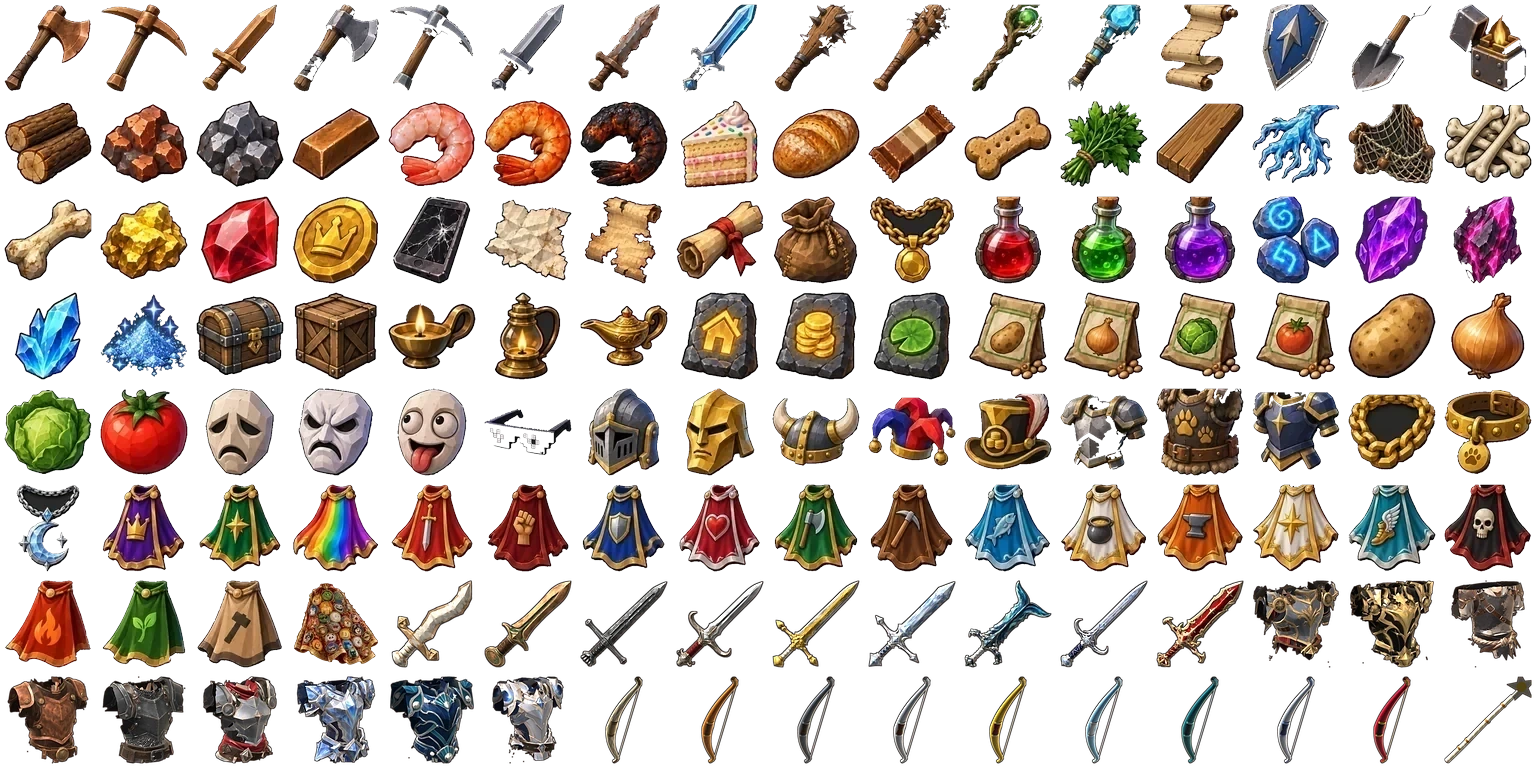
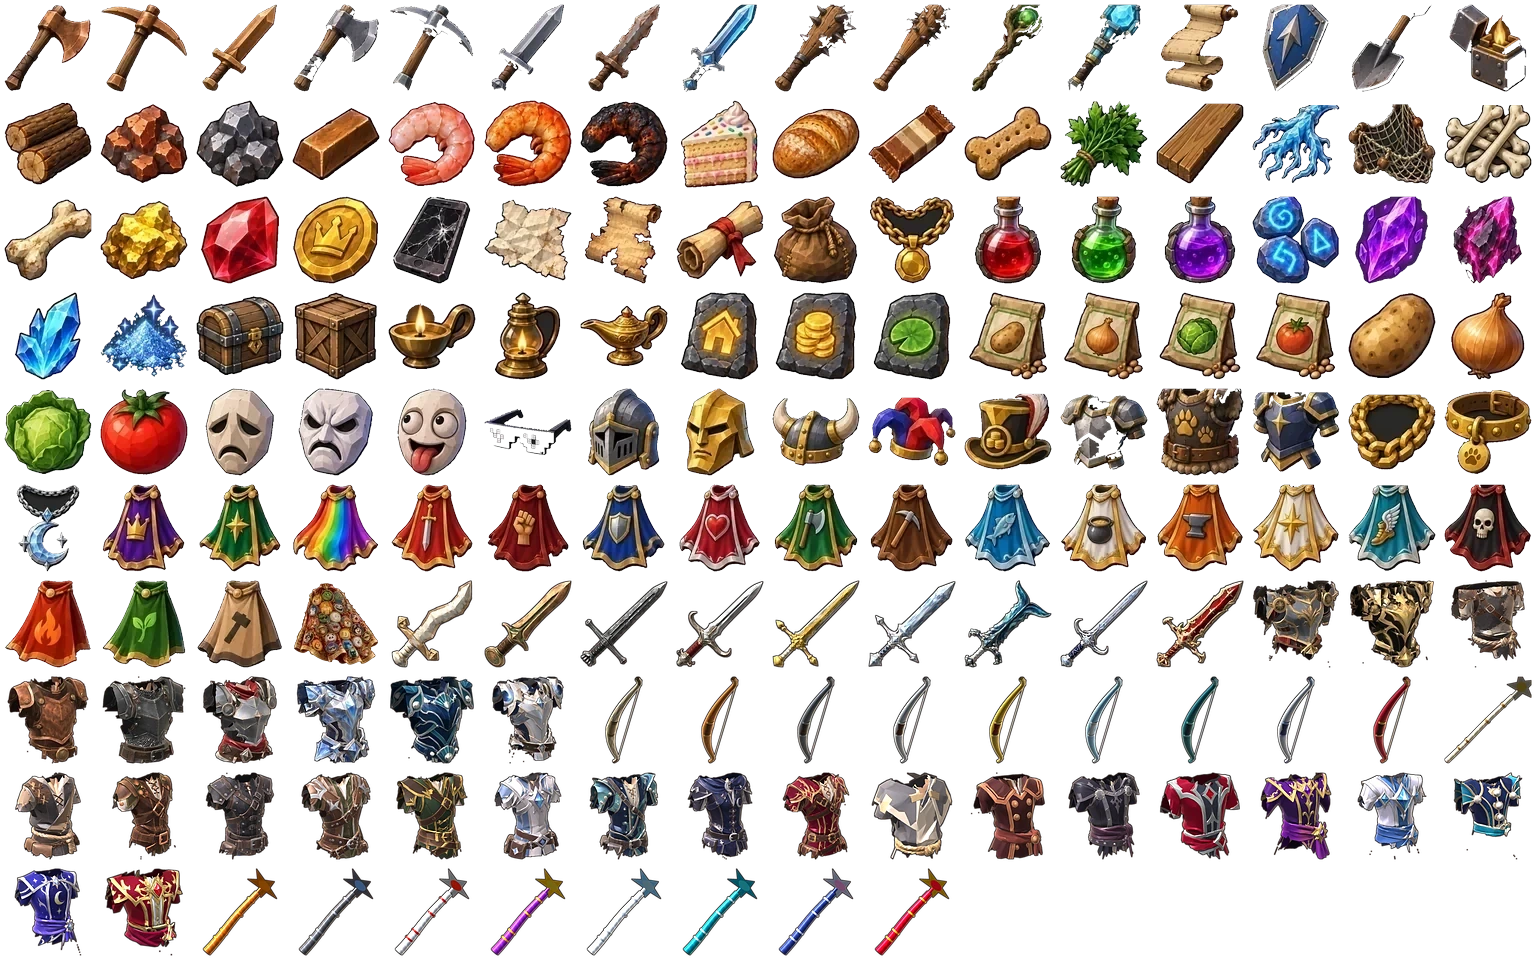
Bag pictures for the 18 ranger/mage armour sets and staffs 10-80 (renders of the real models, items3 sheet)
Claude-Session: https://claude.ai/code/session_01B5KSX6BqZ4nmG7ZGc6Ceuh

diff --git a/preview.html b/preview.html
@@ -427,7 +427,7 @@ body.pre #col{display:none!important}
 <div id="ctx"></div><div id="modal"><div id="mb"></div></div>
 <script>
 (()=>{
-const $=i=>document.getElementById(i);const BUILD='20261103100150';
+const $=i=>document.getElementById(i);const BUILD='20261103103223';
 let W=384,H=384;const CX=192,CY=192,W0=384,H0=384;
 let st={coins:0,bank:0,pot:100000000,scape:0,exDay:'',exToday:0,chest:0,last:'wc',pet:0,q:0,qk:0,qp:0,orig:0,cs:0,qs:[0,0,0,0],qc:[0,0,0,0],ap:{g:0,sk:1,hs:0,hc:1,sh:0,pa:1,eye:1},acct:null,xp:{wc:0,mi:0,fi:0,at:0,hp:756,ck:0,sm:0,str:0,def:0},inv:[],hp:12,hp10:1,run:0,en:100,flow:[]};
 try{const o=JSON.parse(localStorage.getItem('ms4')||'null');if(o)st=Object.assign(st,o)}catch(e){}
@@ -498,7 +498,7 @@ const WRQ={bw01:['rg',1],bw10:['rg',10],bw20:['rg',20],bw30:['rg',30],bw40:['rg'
 function equip(i){const k=st.inv[i],sl=slotOf(k);if(!sl)return;if(WRQ[k]&&lvl(st.xp[WRQ[k][0]]||0)<WRQ[k][1])return say('You need a '+NM[WRQ[k][0]]+' level of '+WRQ[k][1]+' to wield the '+IN[k]+'.','#c00');if(WREQ[k]&&lvl(st.xp.at)<WREQ[k])return say('You need an Attack level of '+WREQ[k]+' to wield the '+IN[k]+'.','#c00');if(ARMS[k]&&lvl(st.xp[ARMS[k][3]||'def']||0)<ARMS[k][1])return say('You need a '+NM[ARMS[k][3]||'def']+' level of '+ARMS[k][1]+' to wear the '+IN[k]+'.','#c00');const pr=st.eq[sl];st.inv.splice(i,1);if(pr)st.inv.push(pr);st.eq[sl]=k;say('You '+(sl=='weapon'?'wield':'wear')+' the '+IN[k]+'.');ui();save()}
 function unequip(sl){const k=st.eq[sl];if(!k)return;if(cap()<=0)return say("You don't have enough free inventory space to do that.",'#c00');st.eq[sl]=null;st.inv.push(k);say('You remove the '+IN[k]+'.');ui();save()}
 function autoEquip(){for(let i=st.inv.length-1;i>=0;i--){const k=st.inv[i],sl=slotOf(k);if(!sl)continue;if(ARMS[k]&&lvl(st.xp[ARMS[k][3]||'def']||0)<ARMS[k][1])continue;if(WREQ[k]&&lvl(st.xp.at)<WREQ[k])continue;if(WRQ[k])continue;const cur=st.eq[sl],v=x=>sl=='weapon'?(WB[x]||0):(AB[x]||0);if(!cur||v(k)>v(cur)){st.inv.splice(i,1);if(cur)st.inv.push(cur);st.eq[sl]=k}}}
-IC.tin=IC.ore.split('#b8642e').join('#a8b0b8');IN.tin='Tin ore';EX.tin='This needs refining.';SELL.tin=2;IC.iron=IC.ore.split('#b8642e').join('#7d6a5e');IN.iron='Iron ore';EX.iron='Heavy, dark and full of promise.';SELL.iron=4;IC.coal=IC.ore.split('#b8642e').join('#2c2c30');IN.coal='Coal';EX.coal='Burns hot. Steel needs it.';SELL.coal=3;IC.ibar=IC.bar.split('#9aa6b5').join('#7c848e');IN.ibar='Iron bar';EX.ibar='A bar of iron. Never lets go.';SELL.ibar=10;IC.sbar=IC.bar.split('#9aa6b5').join('#d2d8e0');IN.sbar='Steel bar';EX.sbar='Bright steel, ready for the anvil.';SELL.sbar=25;{const IXS={"axe": 0, "pick": 1, "sword": 2, "iaxe": 3, "ipick": 4, "isword": 5, "rusty": 6, "rsword": 7, "club": 8, "bbat": 9, "bstaff": 10, "astaff": 11, "iscroll": 12, "rshield": 13, "spade": 14, "tinder": 15, "logs": 16, "ore": 17, "tin": 18, "bar": 19, "fish": 20, "cfish": 21, "burnt": 22, "cake": 23, "bread": 24, "protein": 25, "treat": 26, "herbs": 27, "plank": 28, "broot": 29, "net": 30, "bones": 31, "bbones": 32, "gold": 33, "rgem": 34, "rtoken": 35, "phone": 36, "scrap": 37, "sfrag": 38, "clue": 39, "stolen": 40, "jewel": 41, "potion": 42, "bogess": 43, "messence": 44, "runes": 45, "afrag": 46, "chaos": 47, "rshard": 48, "sdust": 49, "casket": 50, "crate": 51, "lamp5": 52, "lamp15": 53, "lampg": 54, "tab_w": 55, "tab_s": 56, "tab_p": 57, "spot": 58, "sonion": 59, "scab": 60, "stom": 61, "potato": 62, "onion": 63, "cabbage": 64, "tomato": 65, "wmask": 66, "rmask": 67, "bmask": 68, "shades": 69, "ghelm": 70, "chelm": 71, "vhelm": 72, "jhat": 73, "clhat": 74, "sbody": 75, "darmor": 76, "rarmor": 77, "chain": 78, "gcollar": 79, "moonamu": 80, "ccape": 81, "mcape": 82, "clcape": 83, "cape_at": 84, "cape_str": 85, "cape_def": 86, "cape_hp": 87, "cape_wc": 88, "cape_mi": 89, "cape_fi": 90, "cape_ck": 91, "cape_sm": 92, "cape_pr": 93, "cape_ag": 94, "cape_sl": 95, "cape_fm": 96, "cape_fa": 97, "cape_cn": 98, "memecape": 99, "sw01": 100, "sw10": 101, "sw20": 102, "sw30": 103, "sw40": 104, "sw50": 105, "sw60": 106, "sw70": 107, "sw80": 108, "arm40": 109, "arm80": 110, "arm01": 111, "arm10": 112, "arm20": 113, "arm30": 114, "arm50": 115, "arm60": 116, "arm70": 117, "bw01": 118, "bw10": 119, "bw20": 120, "bw30": 121, "bw40": 122, "bw50": 123, "bw60": 124, "bw70": 125, "bw80": 126, "st01": 127};for(const k in IXS){const i=IXS[k];IC[k]='<svg x="0" y="0" width="24" height="24" viewBox="'+((i%16)*96)+' '+(Math.floor(i/16)*96)+' 96 96"><image href="icons/items3.webp" width="1536" height="768"/></svg>'}}
+IC.tin=IC.ore.split('#b8642e').join('#a8b0b8');IN.tin='Tin ore';EX.tin='This needs refining.';SELL.tin=2;IC.iron=IC.ore.split('#b8642e').join('#7d6a5e');IN.iron='Iron ore';EX.iron='Heavy, dark and full of promise.';SELL.iron=4;IC.coal=IC.ore.split('#b8642e').join('#2c2c30');IN.coal='Coal';EX.coal='Burns hot. Steel needs it.';SELL.coal=3;IC.ibar=IC.bar.split('#9aa6b5').join('#7c848e');IN.ibar='Iron bar';EX.ibar='A bar of iron. Never lets go.';SELL.ibar=10;IC.sbar=IC.bar.split('#9aa6b5').join('#d2d8e0');IN.sbar='Steel bar';EX.sbar='Bright steel, ready for the anvil.';SELL.sbar=25;{const IXS={"axe": 0, "pick": 1, "sword": 2, "iaxe": 3, "ipick": 4, "isword": 5, "rusty": 6, "rsword": 7, "club": 8, "bbat": 9, "bstaff": 10, "astaff": 11, "iscroll": 12, "rshield": 13, "spade": 14, "tinder": 15, "logs": 16, "ore": 17, "tin": 18, "bar": 19, "fish": 20, "cfish": 21, "burnt": 22, "cake": 23, "bread": 24, "protein": 25, "treat": 26, "herbs": 27, "plank": 28, "broot": 29, "net": 30, "bones": 31, "bbones": 32, "gold": 33, "rgem": 34, "rtoken": 35, "phone": 36, "scrap": 37, "sfrag": 38, "clue": 39, "stolen": 40, "jewel": 41, "potion": 42, "bogess": 43, "messence": 44, "runes": 45, "afrag": 46, "chaos": 47, "rshard": 48, "sdust": 49, "casket": 50, "crate": 51, "lamp5": 52, "lamp15": 53, "lampg": 54, "tab_w": 55, "tab_s": 56, "tab_p": 57, "spot": 58, "sonion": 59, "scab": 60, "stom": 61, "potato": 62, "onion": 63, "cabbage": 64, "tomato": 65, "wmask": 66, "rmask": 67, "bmask": 68, "shades": 69, "ghelm": 70, "chelm": 71, "vhelm": 72, "jhat": 73, "clhat": 74, "sbody": 75, "darmor": 76, "rarmor": 77, "chain": 78, "gcollar": 79, "moonamu": 80, "ccape": 81, "mcape": 82, "clcape": 83, "cape_at": 84, "cape_str": 85, "cape_def": 86, "cape_hp": 87, "cape_wc": 88, "cape_mi": 89, "cape_fi": 90, "cape_ck": 91, "cape_sm": 92, "cape_pr": 93, "cape_ag": 94, "cape_sl": 95, "cape_fm": 96, "cape_fa": 97, "cape_cn": 98, "memecape": 99, "sw01": 100, "sw10": 101, "sw20": 102, "sw30": 103, "sw40": 104, "sw50": 105, "sw60": 106, "sw70": 107, "sw80": 108, "arm40": 109, "arm80": 110, "arm01": 111, "arm10": 112, "arm20": 113, "arm30": 114, "arm50": 115, "arm60": 116, "arm70": 117, "bw01": 118, "bw10": 119, "bw20": 120, "bw30": 121, "bw40": 122, "bw50": 123, "bw60": 124, "bw70": 125, "bw80": 126, "st01": 127, "ra01": 128, "ra10": 129, "ra20": 130, "ra30": 131, "ra40": 132, "ra50": 133, "ra60": 134, "ra70": 135, "ra80": 136, "ma01": 137, "ma10": 138, "ma20": 139, "ma30": 140, "ma40": 141, "ma50": 142, "ma60": 143, "ma70": 144, "ma80": 145, "st10": 146, "st20": 147, "st30": 148, "st40": 149, "st50": 150, "st60": 151, "st70": 152, "st80": 153};for(const k in IXS){const i=IXS[k];IC[k]='<svg x="0" y="0" width="24" height="24" viewBox="'+((i%16)*96)+' '+(Math.floor(i/16)*96)+' 96 96"><image href="icons/items3.webp" width="1536" height="960"/></svg>'}}
 const STY=['Accurate','Aggressive','Defensive','Controlled'],WST={sword:[4,5,4],isword:[10,7,4],club:[9,12,5],bstaff:[10,8,5],iscroll:[18,12,4],astaff:[22,18,5],rsword:[65,62,4],bbat:[8,11,5],sw01:[3, 3, 4],sw10:[8, 7, 4],sw20:[16, 14, 4],sw30:[26, 24, 4],sw40:[38, 36, 4],sw50:[52, 50, 4],sw60:[66, 64, 4],sw70:[82, 80, 4],sw80:[100, 98, 4],bw01:[0,0,4],bw10:[0,0,4],bw20:[0,0,4],bw30:[0,0,4],bw40:[0,0,4],bw50:[0,0,4],bw60:[0,0,4],bw70:[0,0,4],bw80:[0,0,4],st01:[2,1,5],st10:[2,1,5],st20:[2,1,5],st30:[2,1,5],st40:[2,1,5],st50:[2,1,5],st60:[2,1,5],st70:[2,1,5],st80:[2,1,5]};
 const sk256=(lo,hi,l)=>(1+Math.floor(lo*(100-l)/99+hi*(l-1)/99+.5))/256;
 function wStats(){const w=bestW();return w&&WST[w]?WST[w]:[0,0,4]}
